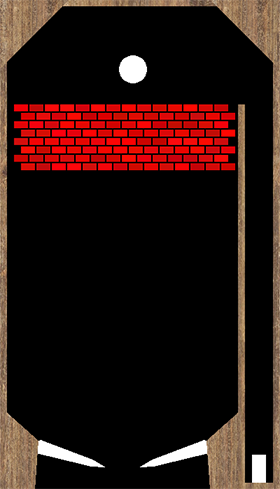
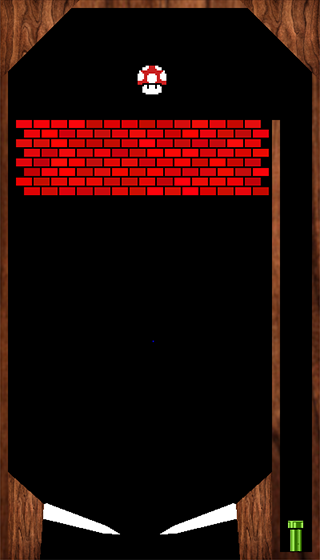
finission et ajout des dernier sprites + 3eme niveau

Changed region(s): [[0.0, 0.0, 1.0, 1.0], [0.4286, 0.092, 0.5429, 0.184]]

diff --git a/Loader.h b/Loader.h
@@ -19,11 +19,24 @@
 #ifndef LOADER_H_
 #define LOADER_H_
 
+#define BUMPER "resources/Bumper.png"
+#define MULTIPLICATEUR "resources/Multiplicateur.png"
+#define BACKGROUND_MARIO "resources/Background.png"
 #define WOOD "resources/wood.png"
 #define BLUE "resources/jeton_bleu.png"
 #define RED "resources/jeton_rouge.png"
 #define ROULETTE "resources/roulette.png"
 #define FEUTRINE "resources/feutrine.jpg"
+#define CHAMPIGNON "resources/champignon.png"
+#define TUYAU "resources/toyô.png"
+#define LEFTTRIANGLEBUMPER "resources/left_triangle_bumper.png"
+#define RIGHTTRIANGLEBUMPER "resources/right_triangle_bumper.png"
+#define LEFTFLIPPER "resources/Left_Flipper.png"
+#define RIGHTFLIPPER "resources/Right_Flipper.png"
+#define TEST "resources/Test.jpg"
+#define MARIOBALL "resources/Mario_ball.png"
+#define BACKGROUNDBLEU "resources/Bleu.png"
+#define BACKGROUNDNOIR "resources/Noir.png"
 
 
 class Loader {
@@ -169,6 +182,7 @@ public:
         right_angle_shape->add_points({Vector2D(300,100), Vector2D(400,100), Vector2D(400,200)});
 
         // entity
+        
         std::unique_ptr<Wall> bottom_wall = std::make_unique<Wall>(std::move(bottom_wall_shape), WOOD);
         std::unique_ptr<Wall> top_wall = std::make_unique<Wall>(std::move(top_wall_shape), WOOD);
         std::unique_ptr<Wall> left_wall = std::make_unique<Wall>(std::move(left_wall_shape), WOOD);
@@ -182,12 +196,12 @@ public:
         std::unique_ptr<Wall> bot_left_angle = std::make_unique<Wall>(std::move(bot_left_angle_shape), WOOD);
         std::unique_ptr<Wall> bot_right_angle = std::make_unique<Wall>(std::move(bot_right_angle_shape), WOOD);
 
-        std::unique_ptr<Launcher> launcher = std::make_unique<Launcher>("");
+        std::unique_ptr<Launcher> launcher = std::make_unique<Launcher>(TUYAU);
         std::unique_ptr<Flipper> left_flipper = std::make_unique<Flipper>("", FLIPPER_ORIENTATION::LEFT);
         std::unique_ptr<Flipper> right_flipper = std::make_unique<Flipper>("", FLIPPER_ORIENTATION::RIGHT);
         std::unique_ptr<Door> door = std::make_unique<Door>(WOOD);
         std::unique_ptr<GameInfo> game_info = std::make_unique<GameInfo>();
-        std::unique_ptr<BallExpander> ball_expander = std::make_unique<BallExpander>(Vector2D(170, 180), 20, "");
+        std::unique_ptr<BallExpander> ball_expander = std::make_unique<BallExpander>(Vector2D(170, 180), 20, CHAMPIGNON);
 
         constexpr float BRICK_WIDTH = 20; 
         constexpr float BRICK_HEIGTH = 10; 
@@ -210,6 +224,8 @@ public:
       
 
         // make entity
+        
+
         map.make_entity(std::move(game_info));
         map.make_entity(std::move(launcher));
         map.make_entity(std::move(left_flipper));
@@ -237,12 +253,21 @@ public:
 
     static void load_map_3(Map& map) {
         // shape
-        std::unique_ptr<Circle> bumper_4_shape = std::make_unique<Circle>(Vector2D(40, 500), 16);
-        std::unique_ptr<Circle> bumper_5_shape = std::make_unique<Circle>(Vector2D(150, 500), 16);
-        std::unique_ptr<Circle> bumper_6_shape = std::make_unique<Circle>(Vector2D(260, 500), 16);
+        std::unique_ptr<Rectangle> bg_shape = std::make_unique<Rectangle>(Rectangle(Vector2D(0, 100), 400, 700));
+        std::unique_ptr<Circle> bumper_2_shape = std::make_unique<Circle>(Vector2D(50, 520), 16);
+        std::unique_ptr<Circle> bumper_3_shape = std::make_unique<Circle>(Vector2D(274, 520), 16);
+        std::unique_ptr<Circle> bumper_4_shape = std::make_unique<Circle>(Vector2D(105, 270), 22);
+        std::unique_ptr<Circle> bumper_5_shape = std::make_unique<Circle>(Vector2D(220, 315), 22);
+        std::unique_ptr<Circle> bumper_6_shape = std::make_unique<Circle>(Vector2D(130, 390), 22);
 
-        std::unique_ptr<Circle> bumper_7_shape = std::make_unique<Circle>(Vector2D(80, 400), 16);
-        std::unique_ptr<Circle> bumper_8_shape = std::make_unique<Circle>(Vector2D(215, 400), 16);
+        std::unique_ptr<Circle> bumper_7_shape = std::make_unique<Circle>(Vector2D(180, 260), 16);
+        std::unique_ptr<Circle> bumper_8_shape = std::make_unique<Circle>(Vector2D(85, 340), 16);
+        std::unique_ptr<Circle> bumper_9_shape = std::make_unique<Circle>(Vector2D(210, 390), 16);
+
+        std::unique_ptr<Polygone> left_triangle_bumper_shape =std::make_unique<Polygone>(Polygone());
+        left_triangle_bumper_shape->add_points({Vector2D(35,705), Vector2D(38,650), Vector2D(60,720)});
+        std::unique_ptr<Polygone> right_triangle_bumper_shape = std::make_unique<Polygone>(Polygone());
+        right_triangle_bumper_shape->add_points({Vector2D(315,705), Vector2D(290,720), Vector2D(312,650)});
         
         std::unique_ptr<Rectangle> bottom_wall_shape = std::make_unique<Rectangle>(Rectangle(Vector2D(300, 790), 100, 10));
         std::unique_ptr<Rectangle> top_wall_shape = std::make_unique<Rectangle>(Rectangle(Vector2D(0, 100), 400, 10));
@@ -250,9 +275,14 @@ public:
         std::unique_ptr<Rectangle> right_wall_shape = std::make_unique<Rectangle>(Rectangle(Vector2D(390, 100), 10, 700));
         
         std::unique_ptr<Polygone> bot_left_angle_shape = std::make_unique<Polygone>(Polygone());
-        bot_left_angle_shape->add_points({Vector2D(50,800), Vector2D(10,800), Vector2D(10,690), Vector2D(50,730)});
+        bot_left_angle_shape->add_points({Vector2D(55,750), Vector2D(35,735), Vector2D(35,715), Vector2D(60,730)});
         std::unique_ptr<Polygone> bot_right_angle_shape = std::make_unique<Polygone>(Polygone());
-        bot_right_angle_shape->add_points({Vector2D(340,800), Vector2D(300,800), Vector2D(300,730), Vector2D(340,690)});
+        bot_right_angle_shape->add_points({Vector2D(295,750), Vector2D(290,730), Vector2D(315,715), Vector2D(315,735)});
+        
+        std::unique_ptr<Polygone> bot_left_gutter_shape = std::make_unique<Polygone>(Polygone());
+        bot_left_gutter_shape->add_points({Vector2D(70,800), Vector2D(10,800),Vector2D(10,760), Vector2D(25,775),Vector2D(40,780), Vector2D(70,790)});
+        std::unique_ptr<Polygone> bot_right_gutter_shape = std::make_unique<Polygone>(Polygone());
+        bot_right_gutter_shape->add_points({Vector2D(340,800), Vector2D(280,800), Vector2D(280,790),Vector2D(310,780),Vector2D(325,775),Vector2D(340,760)}); 
 
         std::unique_ptr<Rectangle> separation_wall_shape = std::make_unique<Rectangle>(Rectangle(Vector2D(340, 250), 10, 650));
 
@@ -263,43 +293,59 @@ public:
 
 
         // entity
-        std::unique_ptr<Bumper> bumper_4 = std::make_unique<Bumper>(std::move(bumper_4_shape), "resources/star.png");
-        std::unique_ptr<Bumper> bumper_5 = std::make_unique<Bumper>(std::move(bumper_5_shape), "resources/star.png");
-        std::unique_ptr<Bumper> bumper_6 = std::make_unique<Bumper>(std::move(bumper_6_shape), "resources/star.png");
-        std::unique_ptr<Multiplicateur> bumper_7 = std::make_unique<Multiplicateur>(std::move(bumper_7_shape), "resources/keur.png");
-        std::unique_ptr<Multiplicateur> bumper_8 = std::make_unique<Multiplicateur>(std::move(bumper_8_shape), "resources/keur.png");
+        std::unique_ptr<Background> bg = std::make_unique<Background>(std::move(bg_shape), BACKGROUNDBLEU);
+        std::unique_ptr<Bumper> bumper_4 = std::make_unique<Bumper>(std::move(bumper_4_shape), BUMPER);
+        std::unique_ptr<Bumper> bumper_5 = std::make_unique<Bumper>(std::move(bumper_5_shape), BUMPER);
+        std::unique_ptr<Bumper> bumper_6 = std::make_unique<Bumper>(std::move(bumper_6_shape), BUMPER);
+        std::unique_ptr<Multiplicateur> bumper_2 = std::make_unique<Multiplicateur>(std::move(bumper_2_shape), MULTIPLICATEUR);
+        std::unique_ptr<Multiplicateur> bumper_3 = std::make_unique<Multiplicateur>(std::move(bumper_3_shape), MULTIPLICATEUR);
+        std::unique_ptr<Multiplicateur> bumper_7 = std::make_unique<Multiplicateur>(std::move(bumper_7_shape), MULTIPLICATEUR);
+        std::unique_ptr<Multiplicateur> bumper_8 = std::make_unique<Multiplicateur>(std::move(bumper_8_shape), MULTIPLICATEUR);
+        std::unique_ptr<Multiplicateur> bumper_9 = std::make_unique<Multiplicateur>(std::move(bumper_9_shape), MULTIPLICATEUR);
 
-        std::unique_ptr<Wall> bottom_wall = std::make_unique<Wall>(std::move(bottom_wall_shape), "resources/Test.jpg");
-        std::unique_ptr<Wall> top_wall = std::make_unique<Wall>(std::move(top_wall_shape), "resources/Test.jpg");
-        std::unique_ptr<Wall> left_wall = std::make_unique<Wall>(std::move(left_wall_shape), "resources/Test.jpg");
-        std::unique_ptr<Wall> right_wall = std::make_unique<Wall>(std::move(right_wall_shape), "resources/Test.jpg");
+        std::unique_ptr<Multiplicateur> right_triangle_bumper = std::make_unique<Multiplicateur>(std::move(right_triangle_bumper_shape), RIGHTTRIANGLEBUMPER);
+        std::unique_ptr<Multiplicateur> left_triangle_bumper = std::make_unique<Multiplicateur>(std::move(left_triangle_bumper_shape), LEFTTRIANGLEBUMPER);
 
-        std::unique_ptr<Wall> separation_wall = std::make_unique<Wall>(std::move(separation_wall_shape), "resources/Test.jpg");
+        std::unique_ptr<Wall> bottom_wall = std::make_unique<Wall>(std::move(bottom_wall_shape), BACKGROUNDNOIR);
+        std::unique_ptr<Wall> top_wall = std::make_unique<Wall>(std::move(top_wall_shape), BACKGROUNDNOIR);
+        std::unique_ptr<Wall> left_wall = std::make_unique<Wall>(std::move(left_wall_shape), BACKGROUNDNOIR);
+        std::unique_ptr<Wall> right_wall = std::make_unique<Wall>(std::move(right_wall_shape), BACKGROUNDNOIR);
 
-        std::unique_ptr<Wall> left_angle = std::make_unique<Wall>(std::move(left_angle_shape), "resources/Test.jpg");
-        std::unique_ptr<Wall> right_angle = std::make_unique<Wall>(std::move(right_angle_shape), "resources/Test.jpg");
+        std::unique_ptr<Wall> separation_wall = std::make_unique<Wall>(std::move(separation_wall_shape), BACKGROUNDNOIR);
 
-        std::unique_ptr<Wall> bot_left_angle = std::make_unique<Wall>(std::move(bot_left_angle_shape), "resources/Test.jpg");
-        std::unique_ptr<Wall> bot_right_angle = std::make_unique<Wall>(std::move(bot_right_angle_shape), "resources/Test.jpg");
+        std::unique_ptr<Wall> left_angle = std::make_unique<Wall>(std::move(left_angle_shape), BACKGROUNDNOIR);
+        std::unique_ptr<Wall> right_angle = std::make_unique<Wall>(std::move(right_angle_shape), BACKGROUNDNOIR);
+
+        std::unique_ptr<Wall> bot_left_angle = std::make_unique<Wall>(std::move(bot_left_angle_shape), BACKGROUNDNOIR);
+        std::unique_ptr<Wall> bot_right_angle = std::make_unique<Wall>(std::move(bot_right_angle_shape), BACKGROUNDNOIR);
+        std::unique_ptr<Wall> bot_left_gutter = std::make_unique<Wall>(std::move(bot_left_gutter_shape), BACKGROUNDNOIR);
+        std::unique_ptr<Wall> bot_right_gutter = std::make_unique<Wall>(std::move(bot_right_gutter_shape), BACKGROUNDNOIR);
 
         std::unique_ptr<Launcher> launcher = std::make_unique<Launcher>("");
         std::unique_ptr<Flipper> left_flipper = std::make_unique<Flipper>("", FLIPPER_ORIENTATION::LEFT);
         std::unique_ptr<Flipper> right_flipper = std::make_unique<Flipper>("", FLIPPER_ORIENTATION::RIGHT);
-        std::unique_ptr<Door> door = std::make_unique<Door>("resources/Test.jpg");
+        std::unique_ptr<Door> door = std::make_unique<Door>(BACKGROUNDNOIR);
         std::unique_ptr<GameInfo> game_info = std::make_unique<GameInfo>();
+    
 
         // make entity
+        map.make_entity(std::move(bg));
         map.make_entity(std::move(game_info));
         map.make_entity(std::move(launcher));
         map.make_entity(std::move(left_flipper));
         map.make_entity(std::move(right_flipper));
         map.make_entity(std::move(door));
         
+        map.make_entity(std::move(bumper_2));
+        map.make_entity(std::move(bumper_3));
         map.make_entity(std::move(bumper_4));
         map.make_entity(std::move(bumper_5));
         map.make_entity(std::move(bumper_6));
         map.make_entity(std::move(bumper_7));
         map.make_entity(std::move(bumper_8));
+        map.make_entity(std::move(bumper_9));
+        map.make_entity(std::move(right_triangle_bumper));
+        map.make_entity(std::move(left_triangle_bumper));
 
         map.make_entity(std::move(bottom_wall));
         map.make_entity(std::move(top_wall));
@@ -310,11 +356,13 @@ public:
 
         map.make_entity(std::move(left_angle));
         map.make_entity(std::move(right_angle));
+        map.make_entity(std::move(bot_left_gutter));
+        map.make_entity(std::move(bot_right_gutter));
 
         map.make_entity(std::move(bot_left_angle));
         map.make_entity(std::move(bot_right_angle));
 
-        map.set_name("Niveau_3");
+        map.set_name("Classique");
     }
 
     static void map_historique(Map& map) {
@@ -345,29 +393,29 @@ public:
 
 
         // entity
-        std::unique_ptr<Bumper> bumper_4 = std::make_unique<Bumper>(std::move(bumper_4_shape), "resources/star.png");
-        std::unique_ptr<Bumper> bumper_5 = std::make_unique<Bumper>(std::move(bumper_5_shape), "resources/star.png");
-        std::unique_ptr<Bumper> bumper_6 = std::make_unique<Bumper>(std::move(bumper_6_shape), "resources/star.png");
-        std::unique_ptr<Multiplicateur> bumper_7 = std::make_unique<Multiplicateur>(std::move(bumper_7_shape), "resources/keur.png");
-        std::unique_ptr<Multiplicateur> bumper_8 = std::make_unique<Multiplicateur>(std::move(bumper_8_shape), "resources/keur.png");
+        std::unique_ptr<Bumper> bumper_4 = std::make_unique<Bumper>(std::move(bumper_4_shape), BUMPER);
+        std::unique_ptr<Bumper> bumper_5 = std::make_unique<Bumper>(std::move(bumper_5_shape), BUMPER);
+        std::unique_ptr<Bumper> bumper_6 = std::make_unique<Bumper>(std::move(bumper_6_shape), BUMPER);
+        std::unique_ptr<Multiplicateur> bumper_7 = std::make_unique<Multiplicateur>(std::move(bumper_7_shape), MULTIPLICATEUR);
+        std::unique_ptr<Multiplicateur> bumper_8 = std::make_unique<Multiplicateur>(std::move(bumper_8_shape), MULTIPLICATEUR);
 
-        std::unique_ptr<Wall> bottom_wall = std::make_unique<Wall>(std::move(bottom_wall_shape), "resources/Test.jpg");
-        std::unique_ptr<Wall> top_wall = std::make_unique<Wall>(std::move(top_wall_shape), "resources/Test.jpg");
-        std::unique_ptr<Wall> left_wall = std::make_unique<Wall>(std::move(left_wall_shape), "resources/Test.jpg");
-        std::unique_ptr<Wall> right_wall = std::make_unique<Wall>(std::move(right_wall_shape), "resources/Test.jpg");
+        std::unique_ptr<Wall> bottom_wall = std::make_unique<Wall>(std::move(bottom_wall_shape), TEST);
+        std::unique_ptr<Wall> top_wall = std::make_unique<Wall>(std::move(top_wall_shape), TEST);
+        std::unique_ptr<Wall> left_wall = std::make_unique<Wall>(std::move(left_wall_shape), TEST);
+        std::unique_ptr<Wall> right_wall = std::make_unique<Wall>(std::move(right_wall_shape), TEST);
 
-        std::unique_ptr<Wall> separation_wall = std::make_unique<Wall>(std::move(separation_wall_shape), "resources/Test.jpg");
+        std::unique_ptr<Wall> separation_wall = std::make_unique<Wall>(std::move(separation_wall_shape), TEST);
 
-        std::unique_ptr<Wall> left_angle = std::make_unique<Wall>(std::move(left_angle_shape), "resources/Test.jpg");
-        std::unique_ptr<Wall> right_angle = std::make_unique<Wall>(std::move(right_angle_shape), "resources/Test.jpg");
+        std::unique_ptr<Wall> left_angle = std::make_unique<Wall>(std::move(left_angle_shape), TEST);
+        std::unique_ptr<Wall> right_angle = std::make_unique<Wall>(std::move(right_angle_shape), TEST);
 
-        std::unique_ptr<Wall> bot_left_angle = std::make_unique<Wall>(std::move(bot_left_angle_shape), "resources/Test.jpg");
-        std::unique_ptr<Wall> bot_right_angle = std::make_unique<Wall>(std::move(bot_right_angle_shape), "resources/Test.jpg");
+        std::unique_ptr<Wall> bot_left_angle = std::make_unique<Wall>(std::move(bot_left_angle_shape), TEST);
+        std::unique_ptr<Wall> bot_right_angle = std::make_unique<Wall>(std::move(bot_right_angle_shape), TEST);
 
         std::unique_ptr<Launcher> launcher = std::make_unique<Launcher>("");
         std::unique_ptr<Flipper> left_flipper = std::make_unique<Flipper>("", FLIPPER_ORIENTATION::LEFT);
         std::unique_ptr<Flipper> right_flipper = std::make_unique<Flipper>("", FLIPPER_ORIENTATION::RIGHT);
-        std::unique_ptr<Door> door = std::make_unique<Door>("resources/Test.jpg");
+        std::unique_ptr<Door> door = std::make_unique<Door>(TEST);
         std::unique_ptr<GameInfo> game_info = std::make_unique<GameInfo>();
 
         // make entity

diff --git a/main.cc b/main.cc
@@ -28,9 +28,19 @@ int main() {
 
 
     sf::Texture homeBackgroundTexture;
-    homeBackgroundTexture.loadFromFile("resources/Home_Background.png");
+    homeBackgroundTexture.loadFromFile("resources/Background_menu_principal.png");
     sf::Sprite homeBackgroundSprite(homeBackgroundTexture);
     homeBackgroundSprite.setPosition(0, 0);
+
+    sf::Texture MapSelectionBackgroundTexture;
+    MapSelectionBackgroundTexture.loadFromFile("resources/Background_selection_map.png");
+    sf::Sprite MapSelectionBackgroundSprite(MapSelectionBackgroundTexture);
+    MapSelectionBackgroundSprite.setPosition(0, 0);
+
+    sf::Texture PauseBackgroundTexture;
+    PauseBackgroundTexture.loadFromFile("resources/Background_pause.png");
+    sf::Sprite PauseBackgroundSprite(PauseBackgroundTexture);
+    PauseBackgroundSprite.setPosition(0, 0);
 
     sf::Texture resumeTexture;
     resumeTexture.loadFromFile("resources/resumebutton.png");
@@ -46,15 +56,15 @@ int main() {
     sf::Texture button1Texture;
     button1Texture.loadFromFile("resources/1.png");
     sf::Sprite button1Sprite(button1Texture);
-    button1Sprite.setPosition(50, 50);
+    button1Sprite.setPosition(50, 100);
     sf::Texture button2Texture;
     button2Texture.loadFromFile("resources/2.png");
     sf::Sprite button2Sprite(button2Texture);
-    button2Sprite.setPosition(150, 50);
+    button2Sprite.setPosition(150, 100);
     sf::Texture button3Texture;
     button3Texture.loadFromFile("resources/3.png");
     sf::Sprite button3Sprite(button3Texture);
-    button3Sprite.setPosition(250, 50);
+    button3Sprite.setPosition(250, 100);
     
     sf::Texture map1Texture;
     map1Texture.loadFromFile("resources/map1.png");
@@ -114,6 +124,7 @@ int main() {
                 }
             break;
         case MenuState::GameMenu:
+            window.draw(PauseBackgroundSprite);
             window.draw(resumeSprite);
             window.draw(mainMenuSprite);
             if (resumeSprite.getGlobalBounds().contains(sf::Vector2f(mousePositionClicked.x, mousePositionClicked.y))) {
@@ -124,6 +135,7 @@ int main() {
             break;
 
         case MenuState::MapSelection:
+            window.draw(MapSelectionBackgroundSprite);
             window.draw(button1Sprite);
             window.draw(button2Sprite);
             window.draw(button3Sprite);
